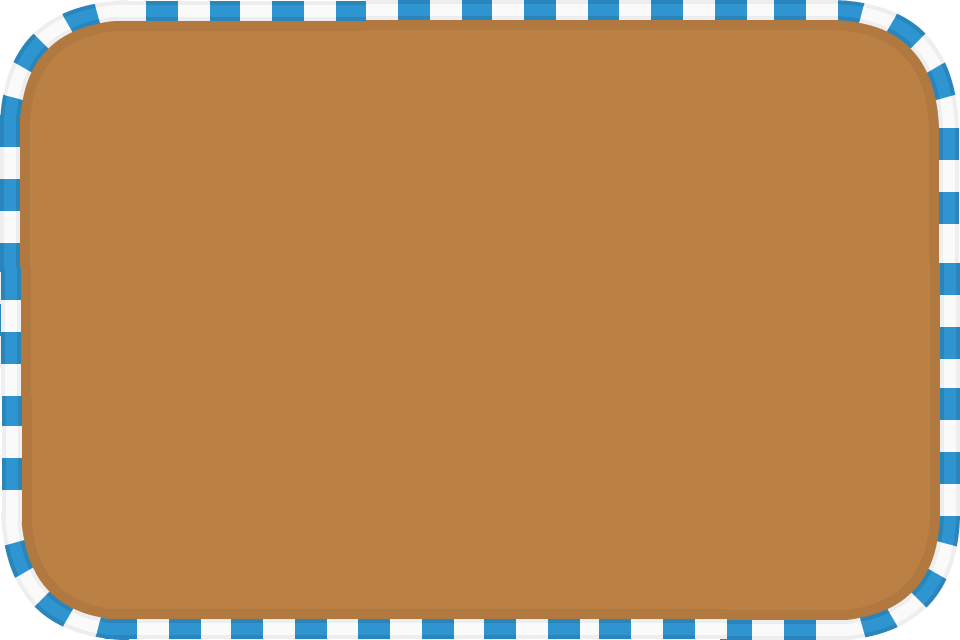
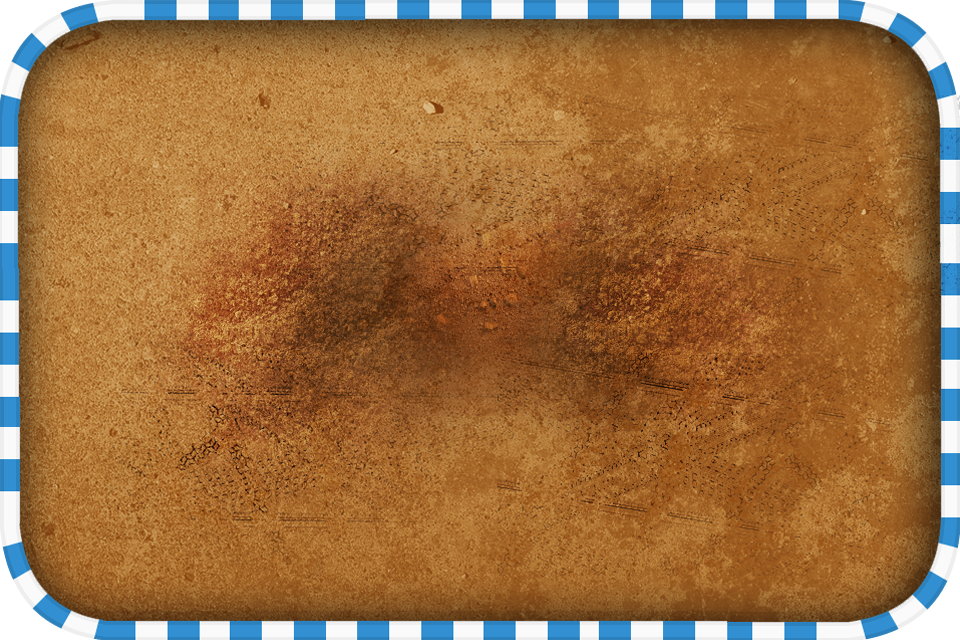
EOD Commit
Added/Upgraded assets from Mike. Started work on enemy trucks.

diff --git a/js/states/Story.js b/js/states/Story.js
@@ -3,6 +3,8 @@ var MonsterTruck = MonsterTruck || {};
 MonsterTruck.StoryState = {
     create: function ()
     {
+        this.background = this.add.sprite(0, 0, 'story');
+        
         /*var g1 = this.add.video('gif');
         g1.play(true);
         g1.addToWorld(0, 0, 0.1, 0.1, 0.7, 0.7);
@@ -23,12 +25,12 @@ MonsterTruck.StoryState = {
         g5.play(true);
         g5.addToWorld(480, 320, 0.5, 0.5, 0.7, 0.7);
         
-        this.add.sprite(40, 0, 'logo');*/
+        this.add.sprite(40, 0, 'logo');
         
         //Enter the monster dome button
         
         
-        this.start = true;
+        */this.start = true;
         this.add.image(0, 0, 'hill');
         this.physics.startSystem(Phaser.Physics.ARCADE);
         
@@ -45,14 +47,14 @@ MonsterTruck.StoryState = {
         this.pedal.inputEnabled = true;
         this.pedal.events.onInputDown.add(function()
         {
-            this.sprite.body.velocity.x=60.5;
-            this.sprite.body.velocity.y=-50;
+            this.sprite.body.velocity.x=108.9;
+            this.sprite.body.velocity.y=-90;
         }, this);
         this.pedal.events.onInputUp.add(function()
         {
             this.start = false;
-            this.sprite.body.velocity.x=-60.5;
-            this.sprite.body.velocity.y=50;
+            this.sprite.body.velocity.x=-145.2;
+            this.sprite.body.velocity.y=120;
         }, this);
         
         this.sprite.angle=-40;

diff --git a/js/states/Preload.js b/js/states/Preload.js
@@ -8,6 +8,7 @@ MonsterTruck.PreloadState = {
         this.load.setPreloadSprite(preloadProgress);
 
         this.load.image('logo', 'assets/images/main-logo.png');
+        this.load.image('story', 'assets/images/menu-background.jpg');
         
         this.load.image('player', 'assets/images/truck.png');
         
@@ -47,7 +48,7 @@ MonsterTruck.PreloadState = {
     },
     create: function ()
     {
-        this.state.start('Game');
+        this.state.start('Story');
     }
 };
 /*Copyright (C) Wayside Co. - All Rights Reserved
